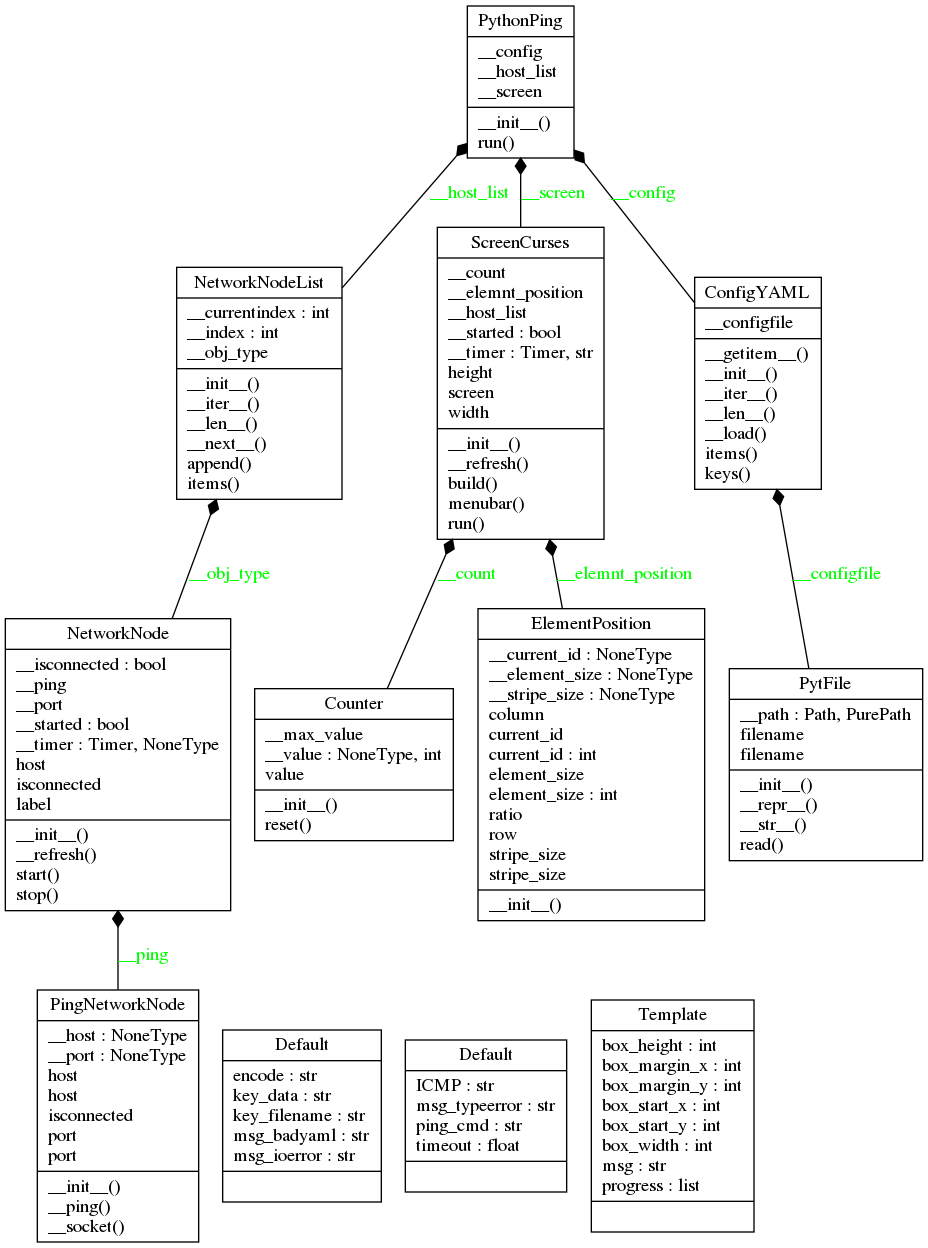
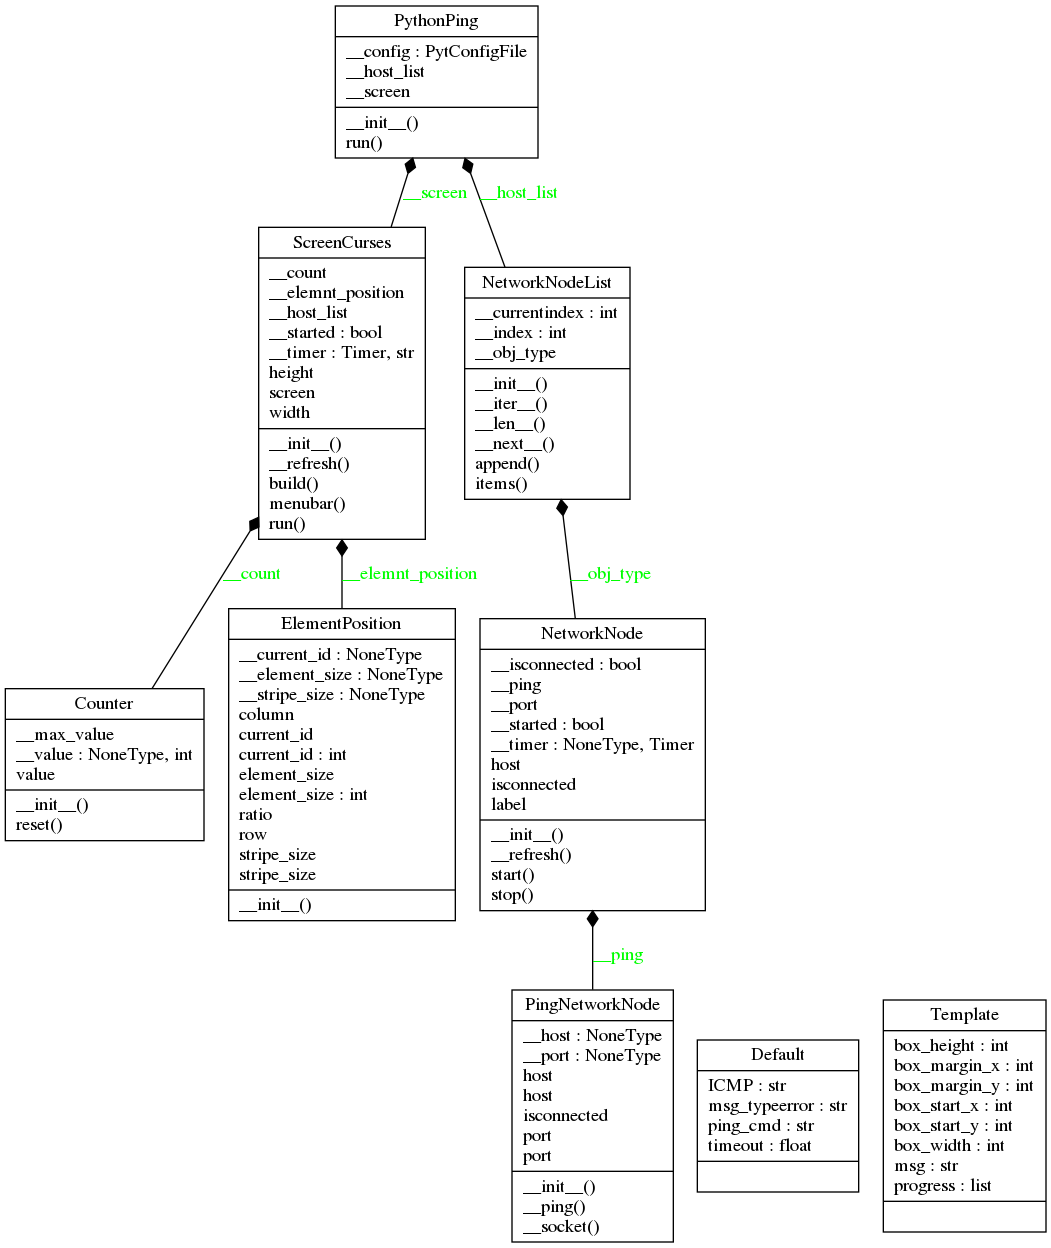
export configyaml

diff --git a/pytping/pyping.py b/pytping/pyping.py
@@ -11,8 +11,8 @@
 
 """
 
+from pytconfig.config import PytConfigFile
 from pytping.screen import ScreenCurses
-from pytping.confyaml import ConfigYAML
 from pytping.netnode import NetworkNode
 from pytping.nodelist import NetworkNodeList
 
@@ -25,7 +25,8 @@ class PythonPing(object):
     Launch the screen manager
     """
     def __init__(self, inputfile):
-        self.__config = ConfigYAML(inputfile)
+        """ self.__config = ConfigYAML(inputfile) """
+        self.__config = PytConfigFile(inputfile, PytConfigFile.isyaml)
         self.__host_list = NetworkNodeList()
         for label in self.__config:
             current_node = NetworkNode(label,

diff --git a/pytping/__init__.py b/pytping/__init__.py
@@ -137,8 +137,6 @@ from pytping.position import ElementPosition
 from pytping.counter import Counter
 from pytping.screen import ScreenCurses
 from pytping.ping import PingNetworkNode
-from pytping.pytfile import PytFile
-from pytping.confyaml import ConfigYAML
 from pytping.netnode import NetworkNode
 from pytping.nodelist import NetworkNodeList
 from pytping.pyping import PythonPing

diff --git a/tests/test_doctest.py b/tests/test_doctest.py
@@ -18,8 +18,7 @@ import unittest
 import subprocess
 from pytping import __about__
 
-modulelist = ['confyaml.py',
-              'counter.py',
+modulelist = ['counter.py',
               'ping.py',
               'position.py',
               'nodelist.py']

diff --git a/README.md b/README.md
@@ -136,22 +136,9 @@ python-3.6.x
 ### Requirements
 
 ```
-more_itertools==4.1.0
-pluggy==0.6.0
 setuptools==39.0.1
 pycodestyle==2.3.1
-six==1.11.0
-zope.interface==4.3.2
-attrs==17.4.0
-py==1.5.3
-argcomplete==1.9.4
-attr==0.3.1
-colorama==0.3.9
-funcsigs==1.0.2
-numpy==1.14.3
-Twisted==18.4.0
 PyYAML==3.12
-zope==4.0b4
 
 ```
 ### UML Diagram
@@ -799,7 +786,7 @@ Launch the screen manager
 def PythonPing.__init__(self, inputfile):
 ```
 > <br />
-> Initialize self.  See help(type(self)) for accurate signature.<br />
+> self.__config = ConfigYAML(inputfile) <br />
 > <br />
 ##### PythonPing.run(self)
 ```python
